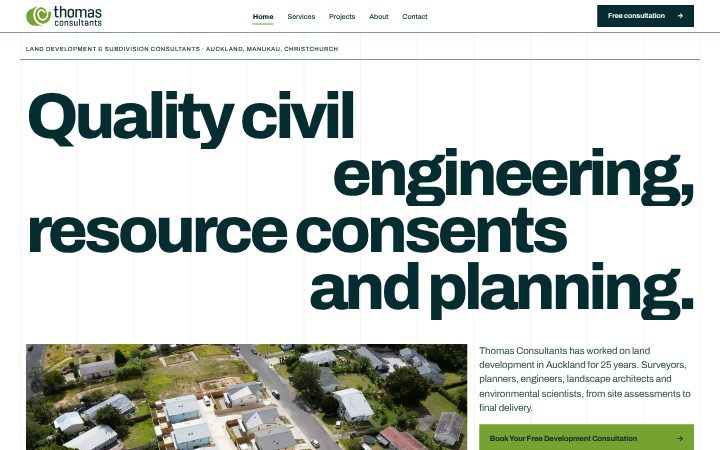
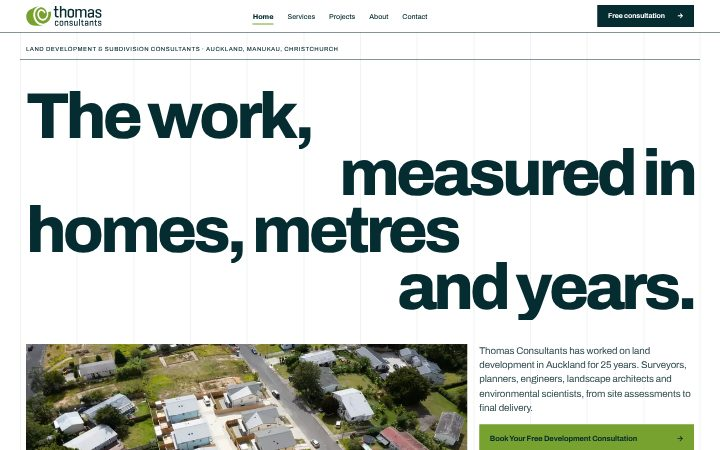
06 Swiss: own headline; Phase 5 verified (e2e 656/656, perf 60/60)
Claude-Session: https://claude.ai/code/session_01Bfoqaxngz2DAAE1X5nW1mk

Changed region(s): [[0.0306, 0.3111, 0.9778, 0.7156], [0.0306, 0.1867, 0.4889, 0.3422]]

diff --git a/thomas-consultants/designs/06-swiss/index.html b/thomas-consultants/designs/06-swiss/index.html
@@ -73,7 +73,7 @@
   <section class="hero5" aria-labelledby="heroTitle">
     <div class="wrap">
       <div class="g12 top"><div class="label full">Land development &amp; subdivision consultants · Auckland, Manukau, Christchurch</div></div>
-      <h1 class="hl" id="heroTitle" aria-label="Quality civil engineering, resource consents and planning."><span class="ln" aria-hidden="true"><span style="--i:0">Quality civil</span></span><span class="ln r g" aria-hidden="true"><span style="--i:1">engineering,</span></span><span class="ln" aria-hidden="true"><span style="--i:2">resource consents</span></span><span class="ln r" aria-hidden="true"><span style="--i:3">and planning.</span></span></h1>
+      <h1 class="hl" id="heroTitle" aria-label="The work, measured in homes, metres and years."><span class="ln" aria-hidden="true"><span style="--i:0">The work,</span></span><span class="ln r g" aria-hidden="true"><span style="--i:1">measured in</span></span><span class="ln" aria-hidden="true"><span style="--i:2">homes, metres</span></span><span class="ln r" aria-hidden="true"><span style="--i:3">and years.</span></span></h1>
       <div class="g12 row">
         <figure class="fig in" style="--i:0"><div class="ph"><img src="../../assets/img/aerial-subdivision-800.webp" srcset="../../assets/img/aerial-subdivision-800.webp 800w, ../../assets/img/aerial-subdivision-1600.webp 1600w" sizes="(min-width: 900px) 62vw, 100vw" width="1600" height="898" alt="Drone view of a completed residential subdivision" fetchpriority="high" decoding="async"></div><figcaption>Fig. 1. Taurus Crescent, Beach Haven. 21 dwellings for Kāinga Ora.</figcaption></figure>
         <div class="side in" style="--i:1">
@@ -89,7 +89,7 @@
 
   <section class="sheet paper cv" id="facts" aria-labelledby="factsTitle">
     <div class="wrap">
-      <div class="g12 shead"><div class="l label"><span class="idx">01</span> Index</div><h2 class="t h2 rv" id="factsTitle">The work, in numbers.</h2><p class="r body-l rv">Every figure below comes from a project we worked on. Select one to read the case study.</p></div>
+      <div class="g12 shead"><div class="l label"><span class="idx">01</span> Index</div><h2 class="t h2 rv" id="factsTitle">Every figure is real.</h2><p class="r body-l rv">Each number below comes from a project we worked on. Select one to read the case study.</p></div>
       <ol class="facts5"><li class="rv"><a href="project.html?p=thom-street"><span class="n"><span class="count" data-to="82">82</span><small></small></span><span class="d"><b>homes at Thom Street, New Lynn</b><span>Engineering design and construction monitoring for Kāinga Ora, completed November 2020.</span></span></a></li><li class="rv"><a href="project.html?p=thom-street"><span class="n"><span class="count" data-to="11046">11,046</span><small>m²</small></span><span class="d"><b>site at Thom Street</b><span>Now home to 300 Kāinga Ora tenants, reached by a new public road we designed.</span></span></a></li><li class="rv"><a href="project.html?p=scott-road"><span class="n"><span class="count" data-to="67">67</span><small></small></span><span class="d"><b>dwellings consented at Scott Road</b><span>Resource consent for Nade Investments in Hobsonville, approved on 9 February 2022.</span></span></a></li><li class="rv"><a href="project.html?p=scott-road"><span class="n"><span class="count" data-to="14096">14,096</span><small>m²</small></span><span class="d"><b>of earthworks at Scott Road</b><span>Planned with retaining walls, groundwater diversion and dewatering.</span></span></a></li><li class="rv"><a href="project.html?p=taurus-crescent"><span class="n"><span class="count" data-to="21">21</span><small></small></span><span class="d"><b>dwellings at Taurus Crescent</b><span>Engineering, surveying and planning in Beach Haven for Kāinga Ora.</span></span></a></li><li class="rv"><a href="project.html?p=kauri-glen"><span class="n"><span class="count" data-to="5905">5,905</span><small>m</small></span><span class="d"><b>of track renewed at Kauri Glen</b><span>Our ecological assessment for Auckland Council, among kauri aged 300 to 400 years.</span></span></a></li><li class="rv"><a href="project.html?p=fearon-park"><span class="n">$4.3m<small></small></span><span class="d"><b>open space programme at Fearon Park</b><span>Client-side project management in Mount Roskill, including asbestos-contaminated soil clearance.</span></span></a></li><li class="rv"><a href="project.html?p=churchill-park"><span class="n"><span class="count" data-to="360">360</span><small>°</small></span><span class="d"><b>views from Churchill Park</b><span>A lookout in Glendowie for Auckland Council and the Ōrakei Local Board.</span></span></a></li></ol>
     </div>
   </section>
